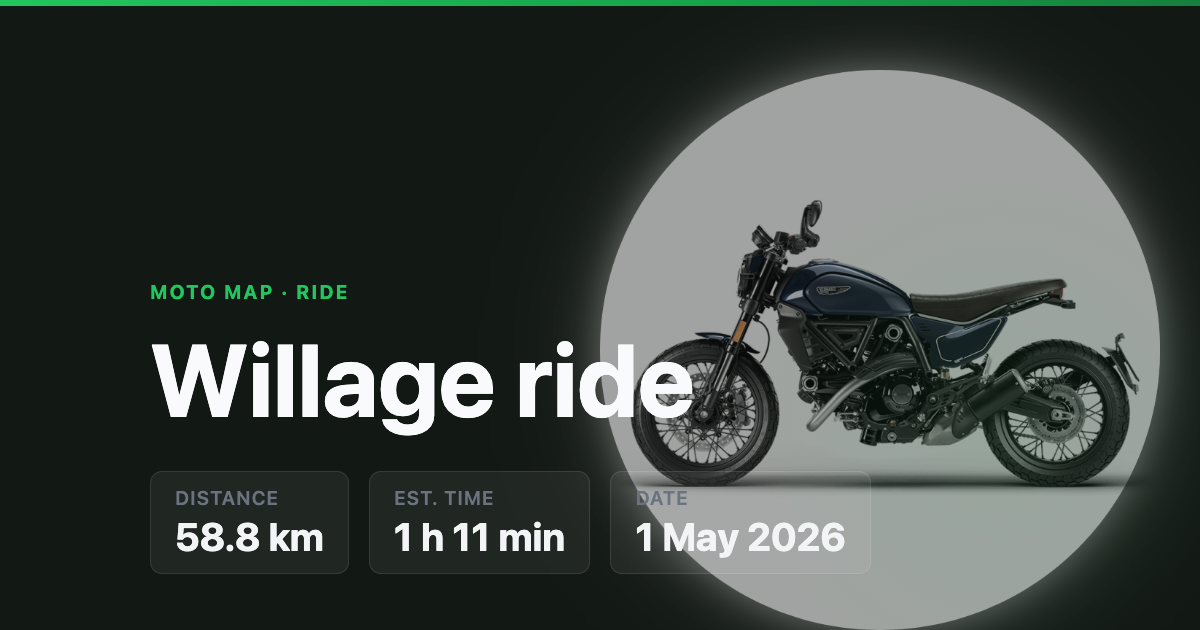
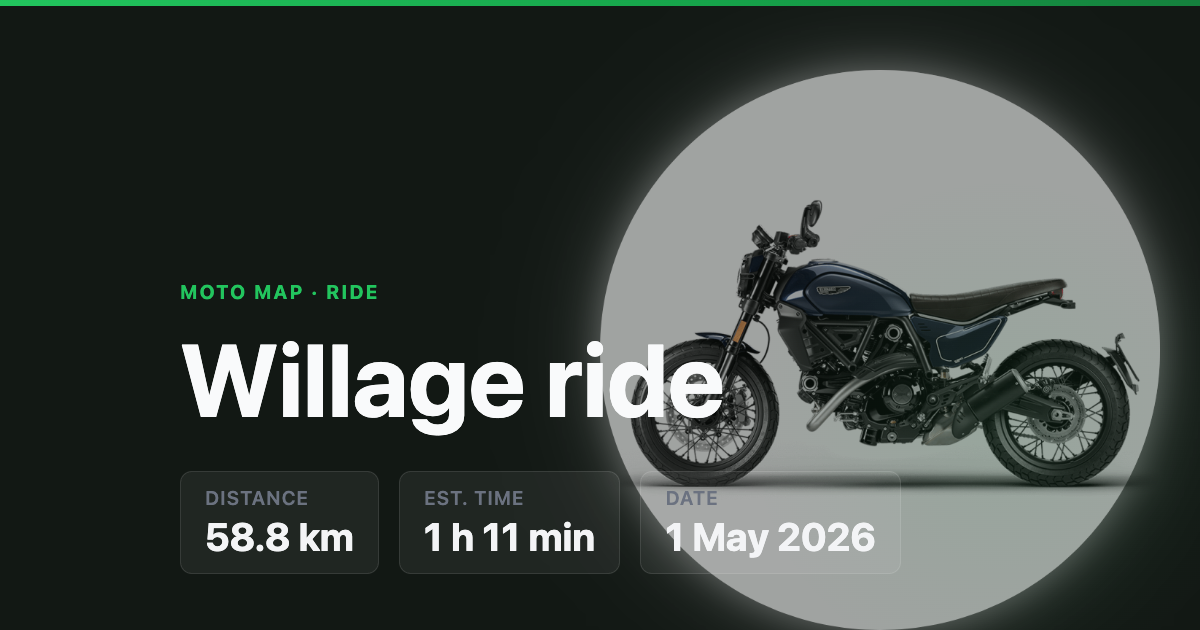
[UPDATE] adjust padding in OG image layout for improved visual balance

diff --git a/scripts/generate-og-images.js b/scripts/generate-og-images.js
@@ -140,7 +140,7 @@ function buildHtml({ title, distanceFmt, durationFmt, dateFmt, isSiteDefault, mo
     flex-direction: column;
     /* Text/content pinned to the bottom */
     justify-content: flex-end;
-    padding: 56px 150px;
+    padding: 56px 180px;
     overflow: hidden;
   }
   /* top accent bar — sits above moto image (z-index via stacking context) */
